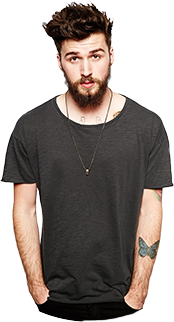
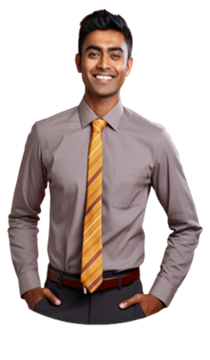
Initial commit

diff --git a/css/style.css b/css/style.css
@@ -375,6 +375,22 @@ h4.ser-vice-tit {
     z-index: 3;
 }
 
+.staff-img-1 img {
+    position: relative;
+    top: 31px;
+    left: 8px;
+}
+
+.staff-img-2 img {
+    position: relative;
+    top: 15px;
+}
+
+.staff-img-3 img {
+    position: relative;
+    top: 22px;
+}
+
 .team-thumb::before {
     background: transparent none repeat scroll 0 0;
     border: 2px solid var(--gold);
@@ -1807,6 +1823,7 @@ h3.contact-title {
     background: none repeat scroll 0 0 #c9a227;
     color: #fff;
 }
+
 /*--------------------- Shopping cart --------------------*/
 .like h2 {
     font-size: 20px;

diff --git a/index.php b/index.php
@@ -167,7 +167,7 @@ include 'dbconnect.php';
                 <div class="hs-single-team">
                     <div class="single-team-inner">
                         <div class="single-team-content">
-                            <div class="team-thumb">
+                            <div class="team-thumb staff-img-1">
                                 <img src="images/team/1.png" alt="team images">
                             </div>
                             <ul class="team-social-icon">
@@ -190,7 +190,7 @@ include 'dbconnect.php';
                 <div class="hs-single-team">
                     <div class="single-team-inner">
                         <div class="single-team-content">
-                            <div class="team-thumb">
+                            <div class="team-thumb staff-img-2">
                                 <img src="images/team/2.png" alt="team images">
                             </div>
                             <ul class="team-social-icon">
@@ -213,7 +213,7 @@ include 'dbconnect.php';
                 <div class="hs-single-team">
                     <div class="single-team-inner">
                         <div class="single-team-content">
-                            <div class="team-thumb">
+                            <div class="team-thumb staff-img-3">
                                 <img src="images/team/3.png" alt="team images">
                             </div>
                             <ul class="team-social-icon">

diff --git a/admin/manage-blog.php b/admin/manage-blog.php
@@ -299,5 +299,3 @@ $blogs = $stmt->fetchAll(PDO::FETCH_ASSOC);
         alert('Blog post added, but failed to send notification email.');
     }
 </script>
-
-<?php include 'footer.php'; ?>
